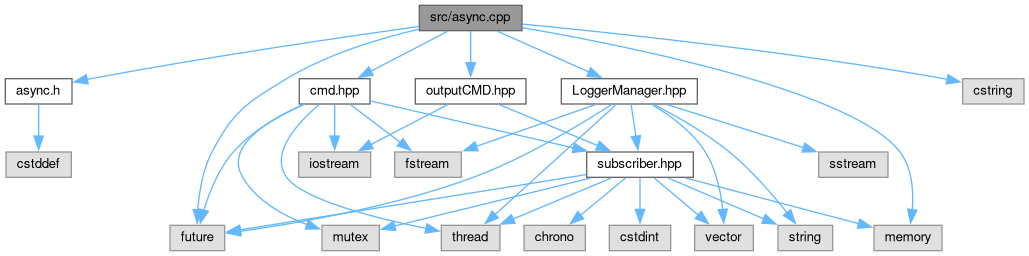
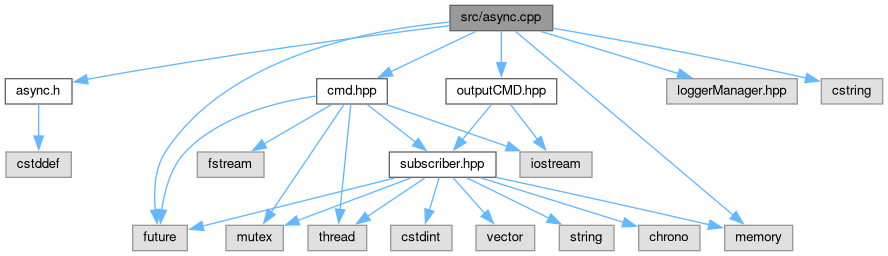
deploy: 2cc9da1832979baba54ad142f3a03737172da79d

diff --git a/dir_000001_000000.html b/dir_000001_000000.html
@@ -74,7 +74,7 @@ $(function() {
 </div>
 </div><!-- top -->
 <div class="contents">
-<h3>src &rarr; include Relation</h3><table class="dirtab"><tr class="dirtab"><th class="dirtab">File in src</th><th class="dirtab">Includes file in include</th></tr><tr class="dirtab"><td class="dirtab"><a class="el" href="async_8cpp.html">async.cpp</a></td><td class="dirtab"><a class="el" href="async_8h.html">async.h</a></td></tr><tr class="dirtab"><td class="dirtab"><a class="el" href="async_8cpp.html">async.cpp</a></td><td class="dirtab"><a class="el" href="cmd_8hpp.html">cmd.hpp</a></td></tr><tr class="dirtab"><td class="dirtab"><a class="el" href="async_8cpp.html">async.cpp</a></td><td class="dirtab"><a class="el" href="LoggerManager_8hpp.html">LoggerManager.hpp</a></td></tr><tr class="dirtab"><td class="dirtab"><a class="el" href="async_8cpp.html">async.cpp</a></td><td class="dirtab"><a class="el" href="outputCMD_8hpp.html">outputCMD.hpp</a></td></tr><tr class="dirtab"><td class="dirtab"><a class="el" href="cmd_8cpp.html">cmd.cpp</a></td><td class="dirtab"><a class="el" href="cmd_8hpp.html">cmd.hpp</a></td></tr><tr class="dirtab"><td class="dirtab"><a class="el" href="cmd_8cpp.html">cmd.cpp</a></td><td class="dirtab"><a class="el" href="subscriber_8hpp.html">subscriber.hpp</a></td></tr><tr class="dirtab"><td class="dirtab"><a class="el" href="loggerManager_8cpp.html">loggerManager.cpp</a></td><td class="dirtab"><a class="el" href="LoggerManager_8hpp.html">LoggerManager.hpp</a></td></tr><tr class="dirtab"><td class="dirtab"><a class="el" href="main_8cpp.html">main.cpp</a></td><td class="dirtab"><a class="el" href="async_8h.html">async.h</a></td></tr><tr class="dirtab"><td class="dirtab"><a class="el" href="main_8cpp.html">main.cpp</a></td><td class="dirtab"><a class="el" href="LoggerManager_8hpp.html">LoggerManager.hpp</a></td></tr><tr class="dirtab"><td class="dirtab"><a class="el" href="outputCMD_8cpp.html">outputCMD.cpp</a></td><td class="dirtab"><a class="el" href="outputCMD_8hpp.html">outputCMD.hpp</a></td></tr><tr class="dirtab"><td class="dirtab"><a class="el" href="outputCMD_8cpp.html">outputCMD.cpp</a></td><td class="dirtab"><a class="el" href="subscriber_8hpp.html">subscriber.hpp</a></td></tr></table></div><!-- contents -->
+<h3>src &rarr; include Relation</h3><table class="dirtab"><tr class="dirtab"><th class="dirtab">File in src</th><th class="dirtab">Includes file in include</th></tr><tr class="dirtab"><td class="dirtab"><a class="el" href="async_8cpp.html">async.cpp</a></td><td class="dirtab"><a class="el" href="async_8h.html">async.h</a></td></tr><tr class="dirtab"><td class="dirtab"><a class="el" href="async_8cpp.html">async.cpp</a></td><td class="dirtab"><a class="el" href="cmd_8hpp.html">cmd.hpp</a></td></tr><tr class="dirtab"><td class="dirtab"><a class="el" href="async_8cpp.html">async.cpp</a></td><td class="dirtab"><a class="el" href="outputCMD_8hpp.html">outputCMD.hpp</a></td></tr><tr class="dirtab"><td class="dirtab"><a class="el" href="cmd_8cpp.html">cmd.cpp</a></td><td class="dirtab"><a class="el" href="cmd_8hpp.html">cmd.hpp</a></td></tr><tr class="dirtab"><td class="dirtab"><a class="el" href="cmd_8cpp.html">cmd.cpp</a></td><td class="dirtab"><a class="el" href="subscriber_8hpp.html">subscriber.hpp</a></td></tr><tr class="dirtab"><td class="dirtab"><a class="el" href="main_8cpp.html">main.cpp</a></td><td class="dirtab"><a class="el" href="async_8h.html">async.h</a></td></tr><tr class="dirtab"><td class="dirtab"><a class="el" href="main_8cpp.html">main.cpp</a></td><td class="dirtab"><a class="el" href="LoggerManager_8hpp.html">LoggerManager.hpp</a></td></tr><tr class="dirtab"><td class="dirtab"><a class="el" href="outputCMD_8cpp.html">outputCMD.cpp</a></td><td class="dirtab"><a class="el" href="outputCMD_8hpp.html">outputCMD.hpp</a></td></tr><tr class="dirtab"><td class="dirtab"><a class="el" href="outputCMD_8cpp.html">outputCMD.cpp</a></td><td class="dirtab"><a class="el" href="subscriber_8hpp.html">subscriber.hpp</a></td></tr></table></div><!-- contents -->
 <!-- start footer part -->
 <hr class="footer"/><address class="footer"><small>
 Generated by&#160;<a href="https://www.doxygen.org/index.html"><img class="footer" src="doxygen.svg" width="104" height="31" alt="doxygen"/></a> 1.9.6

diff --git a/async_8cpp.html b/async_8cpp.html
@@ -84,7 +84,7 @@ $(function() {
 <div class="textblock"><code>#include &quot;<a class="el" href="async_8h_source.html">async.h</a>&quot;</code><br />
 <code>#include &quot;<a class="el" href="cmd_8hpp_source.html">cmd.hpp</a>&quot;</code><br />
 <code>#include &quot;<a class="el" href="outputCMD_8hpp_source.html">outputCMD.hpp</a>&quot;</code><br />
-<code>#include &quot;<a class="el" href="LoggerManager_8hpp_source.html">LoggerManager.hpp</a>&quot;</code><br />
+<code>#include &quot;loggerManager.hpp&quot;</code><br />
 <code>#include &lt;cstring&gt;</code><br />
 <code>#include &lt;future&gt;</code><br />
 <code>#include &lt;memory&gt;</code><br />
@@ -93,25 +93,24 @@ Include dependency graph for async.cpp:</div>
 <div class="dyncontent">
 <div class="center"><img src="async_8cpp__incl.png" border="0" usemap="#asrc_2async_8cpp" alt=""/></div>
 <map name="asrc_2async_8cpp" id="asrc_2async_8cpp">
-<area shape="rect" title=" " alt="" coords="419,5,522,31"/>
+<area shape="rect" title=" " alt="" coords="450,5,553,31"/>
 <area shape="rect" href="async_8h.html" title=" " alt="" coords="5,79,72,104"/>
-<area shape="rect" href="cmd_8hpp.html" title="Class that implements Dispatcher in pattern Observer. Created by this article://https://habr...." alt="" coords="299,79,370,104"/>
-<area shape="rect" title=" " alt="" coords="170,225,225,251"/>
-<area shape="rect" title=" " alt="" coords="874,225,942,251"/>
-<area shape="rect" href="outputCMD_8hpp.html" title="File that conatins subcriber outputCMD." alt="" coords="415,79,526,104"/>
-<area shape="rect" href="LoggerManager_8hpp.html" title="File that contatins class subscriber LoggerManager and function that logs messages in file in async m..." alt="" coords="561,79,697,104"/>
-<area shape="rect" title=" " alt="" coords="963,79,1024,104"/>
+<area shape="rect" href="cmd_8hpp.html" title="Class that implements Dispatcher in pattern Observer. Created by this article://https://habr...." alt="" coords="317,79,387,104"/>
+<area shape="rect" title=" " alt="" coords="133,225,187,251"/>
+<area shape="rect" title=" " alt="" coords="725,225,793,251"/>
+<area shape="rect" href="outputCMD_8hpp.html" title="File that conatins subcriber outputCMD." alt="" coords="446,79,557,104"/>
+<area shape="rect" title=" " alt="" coords="667,79,797,104"/>
+<area shape="rect" title=" " alt="" coords="821,79,883,104"/>
 <area shape="rect" title=" " alt="" coords="6,152,71,177"/>
-<area shape="rect" title=" " alt="" coords="299,152,371,177"/>
-<area shape="rect" title=" " alt="" coords="395,152,461,177"/>
-<area shape="rect" title=" " alt="" coords="441,225,500,251"/>
-<area shape="rect" title=" " alt="" coords="322,225,379,251"/>
-<area shape="rect" href="subscriber_8hpp.html" title="File that contatins commandsContext and interface&#45;class Subscriber for pattern Observer." alt="" coords="587,152,693,177"/>
-<area shape="rect" title=" " alt="" coords="609,225,671,251"/>
-<area shape="rect" title=" " alt="" coords="695,225,753,251"/>
-<area shape="rect" title=" " alt="" coords="778,225,833,251"/>
-<area shape="rect" title=" " alt="" coords="524,225,585,251"/>
-<area shape="rect" title=" " alt="" coords="819,152,888,177"/>
+<area shape="rect" title=" " alt="" coords="520,152,592,177"/>
+<area shape="rect" title=" " alt="" coords="197,152,264,177"/>
+<area shape="rect" title=" " alt="" coords="308,225,367,251"/>
+<area shape="rect" title=" " alt="" coords="226,225,283,251"/>
+<area shape="rect" href="subscriber_8hpp.html" title="File that contatins commandsContext and interface&#45;class Subscriber for pattern Observer." alt="" coords="389,152,496,177"/>
+<area shape="rect" title=" " alt="" coords="391,225,452,251"/>
+<area shape="rect" title=" " alt="" coords="476,225,535,251"/>
+<area shape="rect" title=" " alt="" coords="559,225,614,251"/>
+<area shape="rect" title=" " alt="" coords="639,225,700,251"/>
 </map>
 </div>
 </div><table class="memberdecls">

diff --git a/subscriber_8hpp.html b/subscriber_8hpp.html
@@ -112,15 +112,14 @@ This graph shows which files directly or indirectly include this file:</div>
 <div class="dyncontent">
 <div class="center"><img src="subscriber_8hpp__dep__incl.png" border="0" usemap="#ainclude_2subscriber_8hppdep" alt=""/></div>
 <map name="ainclude_2subscriber_8hppdep" id="ainclude_2subscriber_8hppdep">
-<area shape="rect" title="File that contatins commandsContext and interface&#45;class Subscriber for pattern Observer." alt="" coords="185,5,335,31"/>
-<area shape="rect" href="LoggerManager_8hpp.html" title="File that contatins class subscriber LoggerManager and function that logs messages in file in async m..." alt="" coords="413,79,595,104"/>
-<area shape="rect" href="cmd_8hpp.html" title="Class that implements Dispatcher in pattern Observer. Created by this article://https://habr...." alt="" coords="42,79,158,104"/>
-<area shape="rect" href="cmd_8cpp.html" title=" " alt="" coords="5,152,99,177"/>
-<area shape="rect" href="outputCMD_8hpp.html" title="File that conatins subcriber outputCMD." alt="" coords="182,79,338,104"/>
-<area shape="rect" href="outputCMD_8cpp.html" title=" " alt="" coords="299,152,432,177"/>
-<area shape="rect" href="async_8cpp.html" title=" " alt="" coords="171,152,274,177"/>
-<area shape="rect" href="loggerManager_8cpp.html" title=" " alt="" coords="577,152,730,177"/>
-<area shape="rect" href="main_8cpp.html" title=" " alt="" coords="456,152,552,177"/>
+<area shape="rect" title="File that contatins commandsContext and interface&#45;class Subscriber for pattern Observer." alt="" coords="245,5,395,31"/>
+<area shape="rect" href="LoggerManager_8hpp.html" title="File that contatins class subscriber LoggerManager and function that logs messages in file in async m..." alt="" coords="5,79,187,104"/>
+<area shape="rect" href="cmd_8hpp.html" title="Class that implements Dispatcher in pattern Observer. Created by this article://https://habr...." alt="" coords="262,79,378,104"/>
+<area shape="rect" href="cmd_8cpp.html" title=" " alt="" coords="191,152,284,177"/>
+<area shape="rect" href="outputCMD_8hpp.html" title="File that conatins subcriber outputCMD." alt="" coords="402,79,558,104"/>
+<area shape="rect" href="outputCMD_8cpp.html" title=" " alt="" coords="516,152,649,177"/>
+<area shape="rect" href="main_8cpp.html" title=" " alt="" coords="48,152,144,177"/>
+<area shape="rect" href="async_8cpp.html" title=" " alt="" coords="362,152,465,177"/>
 </map>
 </div>
 </div>

diff --git a/loggerManager_8cpp.html b/loggerManager_8cpp.html
@@ -80,25 +80,14 @@ $(function() {
   <div class="headertitle"><div class="title">loggerManager.cpp File Reference</div></div>
 </div><!--header-->
 <div class="contents">
-<div class="textblock"><code>#include &quot;<a class="el" href="LoggerManager_8hpp_source.html">LoggerManager.hpp</a>&quot;</code><br />
+<div class="textblock"><code>#include &quot;loggerManager.hpp&quot;</code><br />
 </div><div class="textblock"><div class="dynheader">
 Include dependency graph for loggerManager.cpp:</div>
 <div class="dyncontent">
 <div class="center"><img src="loggerManager_8cpp__incl.png" border="0" usemap="#asrc_2loggerManager_8cpp" alt=""/></div>
 <map name="asrc_2loggerManager_8cpp" id="asrc_2loggerManager_8cpp">
-<area shape="rect" title=" " alt="" coords="177,5,330,31"/>
-<area shape="rect" href="LoggerManager_8hpp.html" title="File that contatins class subscriber LoggerManager and function that logs messages in file in async m..." alt="" coords="185,79,321,104"/>
-<area shape="rect" title=" " alt="" coords="5,152,75,177"/>
-<area shape="rect" title=" " alt="" coords="99,152,165,177"/>
-<area shape="rect" title=" " alt="" coords="129,225,183,251"/>
-<area shape="rect" title=" " alt="" coords="208,225,267,251"/>
-<area shape="rect" title=" " alt="" coords="291,225,346,251"/>
-<area shape="rect" title=" " alt="" coords="371,225,429,251"/>
-<area shape="rect" href="subscriber_8hpp.html" title="File that contatins commandsContext and interface&#45;class Subscriber for pattern Observer." alt="" coords="392,152,499,177"/>
-<area shape="rect" title=" " alt="" coords="453,225,515,251"/>
-<area shape="rect" title=" " alt="" coords="539,225,607,251"/>
-<area shape="rect" title=" " alt="" coords="632,225,693,251"/>
-<area shape="rect" title=" " alt="" coords="718,225,775,251"/>
+<area shape="rect" title=" " alt="" coords="5,5,159,31"/>
+<area shape="rect" title=" " alt="" coords="17,79,147,104"/>
 </map>
 </div>
 </div><table class="memberdecls">

diff --git a/LoggerManager_8hpp.html b/LoggerManager_8hpp.html
@@ -114,10 +114,8 @@ This graph shows which files directly or indirectly include this file:</div>
 <div class="dyncontent">
 <div class="center"><img src="LoggerManager_8hpp__dep__incl.png" border="0" usemap="#ainclude_2LoggerManager_8hppdep" alt=""/></div>
 <map name="ainclude_2LoggerManager_8hppdep" id="ainclude_2LoggerManager_8hppdep">
-<area shape="rect" title="File that contatins class subscriber LoggerManager and function that logs messages in file in async m..." alt="" coords="118,5,299,31"/>
-<area shape="rect" href="async_8cpp.html" title=" " alt="" coords="5,79,108,104"/>
-<area shape="rect" href="loggerManager_8cpp.html" title=" " alt="" coords="132,79,285,104"/>
-<area shape="rect" href="main_8cpp.html" title=" " alt="" coords="310,79,406,104"/>
+<area shape="rect" title="File that contatins class subscriber LoggerManager and function that logs messages in file in async m..." alt="" coords="5,5,187,31"/>
+<area shape="rect" href="main_8cpp.html" title=" " alt="" coords="48,79,144,104"/>
 </map>
 </div>
 </div>

diff --git a/dir_68267d1309a1af8e8297ef4c3efbcdba.html b/dir_68267d1309a1af8e8297ef4c3efbcdba.html
@@ -84,7 +84,7 @@ Directory dependency graph for src:</div>
 <map name="adir__68267d1309a1af8e8297ef4c3efbcdba__dep" id="adir__68267d1309a1af8e8297ef4c3efbcdba__dep">
 <area shape="rect" href="dir_68267d1309a1af8e8297ef4c3efbcdba.html" title="src" alt="" coords="17,5,57,31"/>
 <area shape="rect" href="dir_d44c64559bbebec7f509842c48db8b23.html" title="include" alt="" coords="5,79,68,104"/>
-<area shape="rect" href="dir_000001_000000.html" title="11" alt="" coords="38,53,52,67"/>
+<area shape="rect" href="dir_000001_000000.html" title="9" alt="" coords="41,53,49,67"/>
 </map>
 </div>
 <table class="memberdecls">
